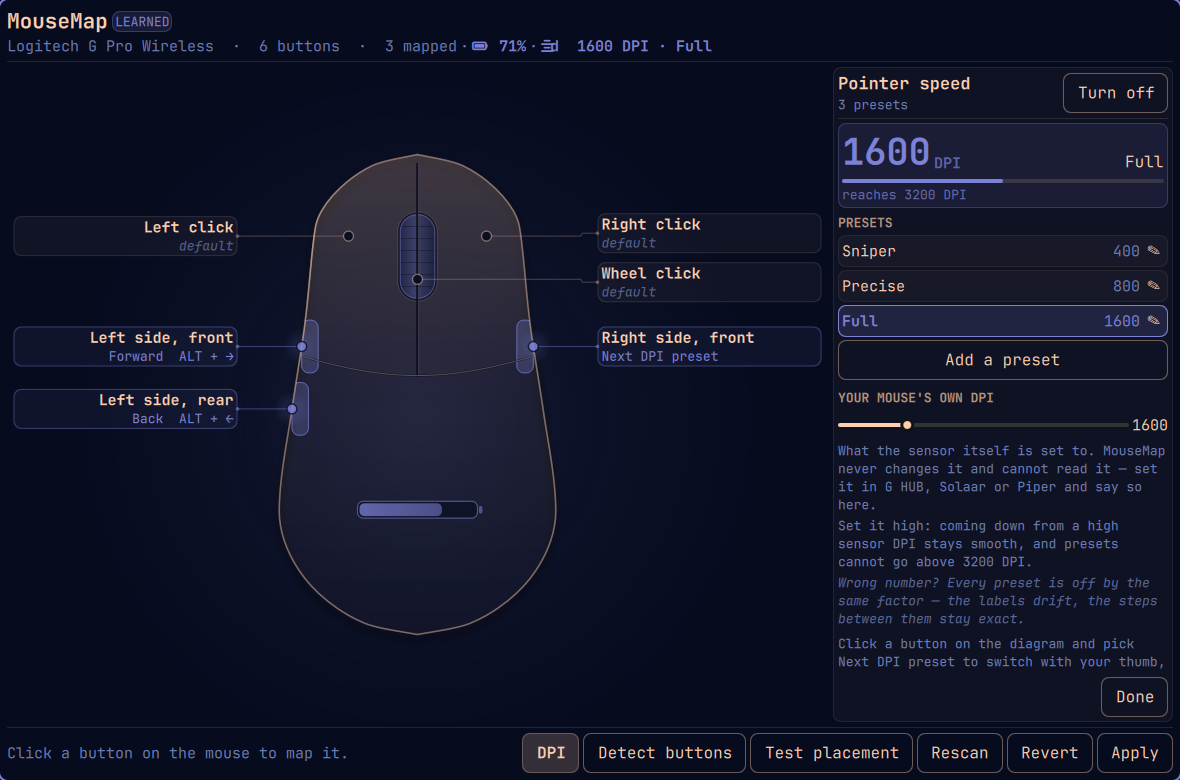
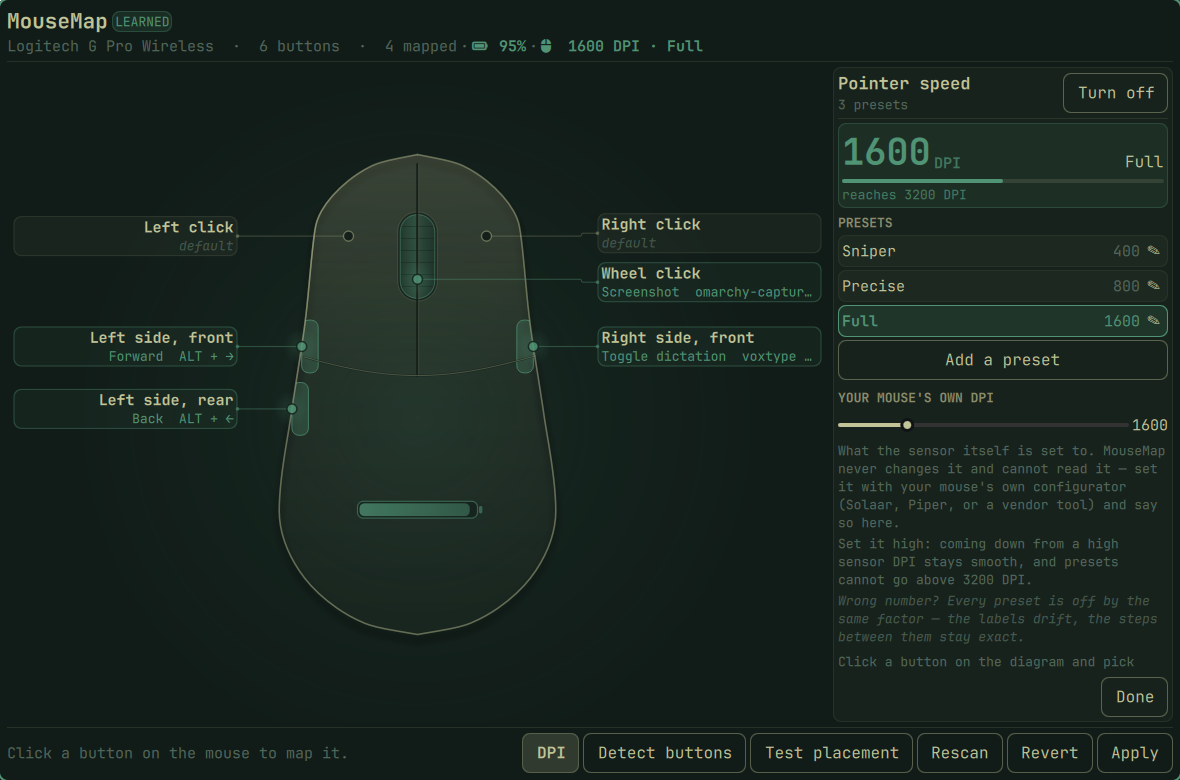
Describe the plugin by what it does, not by one vendor
MouseMap draws whatever mouse is plugged in, and the generated geometry is
what makes an unknown mouse work at all — but the prose led with Logitech
often enough to read as a Logitech tool. The receiver explanation now leads
with the general case and names Unifying and Lightspeed as the common
example; the keystroke-button section names vendor configurators as a class
rather than G HUB alone; and the DPI panel points at "your mouse's own
configurator" instead of listing three brands, since the one a reader needs
is whichever they already use. None of the technical content changed, only
what it claims to be about.

Icon glyphs are now written as the character itself rather than a \u escape,
with a test enforcing it across every QML and JS file. An escape takes
exactly four hex digits, which is not enough for the Material Design range
Nerd Fonts place above U+FFFF: a five-digit escape parses as a four-digit
one plus a literal character, so the label silently renders an unrelated
icon with a stray letter behind it. Writing the character makes the mistake
unavailable instead of merely discouraged, and matches what the bar widget
already did.

Claude-Session: https://claude.ai/code/session_014AG2oW8E2CdpnMBzus4Pnf

diff --git a/MouseMapPanel.qml b/MouseMapPanel.qml
@@ -1224,7 +1224,8 @@ Item {
                 visible: root.battery !== null
                 text: {
                   if (!root.battery) return ""
-                  var glyph = root.battery.charging ? "\uf0e7" : "\uf240"
+                  // Written as characters, not escapes; see the DPI glyph below.
+                  var glyph = root.battery.charging ? "" : ""
                   return glyph + "  " + Devices.batteryLabel(root.battery)
                 }
                 color: root.battery && root.battery.low ? Color.urgent : Color.accent
@@ -1245,9 +1246,16 @@ Item {
               }
               Text {
                 visible: root.dpiPreset !== null
-                // nf-md-mouse, the same glyph the OSD draws on a switch.
+                // nf-md-mouse, the same glyph the bar widget uses.
+                //
+                // Every icon glyph in this plugin is written as the character
+                // itself rather than a \u escape, and a test enforces it. An
+                // escape takes exactly four hex digits, so a codepoint above
+                // U+FFFF cannot be spelled that way at all: "\uf037d" is
+                // U+F037 followed by a literal "d". Writing the character
+                // makes that mistake unavailable.
                 text: root.dpiPreset
-                  ? "\uf037d  " + root.dpiPreset.dpi + " DPI · " + root.dpiPreset.name : ""
+                  ? "  " + root.dpiPreset.dpi + " DPI · " + root.dpiPreset.name : ""
                 color: Color.accent
                 font.family: Style.font.family
                 font.pixelSize: Style.font.bodySmall

diff --git a/tests/test_manifest.js b/tests/test_manifest.js
@@ -145,4 +145,33 @@ for (const script of ["scripts/mousemap", "scripts/mousemap-sniff"]) {
   assert.ok(/## Requirements|dependenc/i.test(readme), "README must document dependencies")
 }
 
+// ---------------------------------------------------------------- glyphs
+//
+// Icon glyphs are written as the character itself, never as a \u escape.
+//
+// An escape takes exactly four hex digits, which is not enough for the
+// Material Design range Nerd Fonts put above U+FFFF: a five-digit escape is
+// silently read as a four-digit one plus a literal character, so the label
+// renders as some unrelated icon with a stray letter after it. Writing the
+// character makes the mistake unavailable rather than merely discouraged.
+//
+// Comments are stripped first, so the note explaining this rule does not
+// trip it.
+{
+  const files = fs.readdirSync(root).filter(f => /\.(qml|js)$/.test(f))
+  const pua = /\\u[eEfF][0-9a-fA-F]{3}/
+
+  for (const file of files) {
+    const code = read(file)
+      .replace(/\/\*[\s\S]*?\*\//g, "")
+      .split("\n")
+      .map(line => line.replace(/^\s*\/\/.*$/, ""))
+      .join("\n")
+
+    const hit = pua.exec(code)
+    assert.ok(!hit,
+      `${file} writes an icon glyph as ${hit && hit[0]}; write the character itself instead`)
+  }
+}
+
 console.log("manifest + packaging: all assertions passed")

diff --git a/DpiPanel.qml b/DpiPanel.qml
@@ -382,7 +382,8 @@ Item {
         Text {
           Layout.fillWidth: true
           text: "What the sensor itself is set to. MouseMap never changes it and "
-              + "cannot read it — set it in G HUB, Solaar or Piper and say so here."
+              + "cannot read it — set it with your mouse's own configurator "
+              + "(Solaar, Piper, or a vendor tool) and say so here."
           wrapMode: Text.WordWrap
           color: Color.muted
           font.family: Style.font.family

diff --git a/README.md b/README.md
@@ -125,8 +125,9 @@ effective = base × (1 + sensitivity)
 ```
 
 `base` is what the mouse's own sensor is set to. MouseMap cannot read it and
-never changes it; you tell it in the panel, and set the sensor itself in G
-HUB, `solaar`, or `piper`/`ratbagd`.
+never changes it; you tell it in the panel, and set the sensor itself with
+your mouse's own configurator — `solaar`, `piper`/`ratbagd`, or a vendor tool
+such as G HUB.
 
 Two consequences worth knowing:
 
@@ -159,11 +160,12 @@ button, watch where it lights up, and drag its label if it is wrong.
 
 ### Detect buttons
 
-Behind a Logitech Unifying or Lightspeed receiver, the kernel cannot tell you
-which buttons the mouse has. The receiver is a HID multiplexer and advertises
-the union of everything it *could* ever carry — all sixteen `BTN_MOUSE` codes
-plus a full keyboard — regardless of what is paired to it. That is why a
-capability list alone is not trustworthy.
+Behind a wireless receiver the kernel often cannot tell you which buttons the
+mouse has. A receiver is a HID multiplexer: it advertises the union of
+everything it *could* ever carry — all sixteen `BTN_MOUSE` codes plus a full
+keyboard — regardless of what is actually paired to it. Logitech's Unifying
+and Lightspeed dongles are the common case, but anything that multiplexes
+behaves this way. That is why a capability list alone is not trustworthy.
 
 **Detect buttons** resolves it by watching: it temporarily binds every
 candidate button code, you press each button on your mouse, and whatever
@@ -183,11 +185,12 @@ no battery section.
 
 ## Buttons that type instead of clicking
 
-Plenty of mouse buttons never send a mouse button at all. A Logitech onboard
-profile that assigns a button a keystroke or a G-shift macro makes it arrive
-as a **keyboard key**, from the receiver's keyboard interface rather than its
-pointer one. A G Pro Wireless can easily have one thumb button sending `2` and
-the other sending `Left Ctrl`.
+Plenty of mouse buttons never send a mouse button at all. An onboard profile
+that assigns a button a keystroke or a shift-layer macro makes it arrive as a
+**keyboard key**, from the receiver's keyboard interface rather than its
+pointer one — vendor configurators all do this, Logitech's G HUB and Razer's
+Synapse among them. A gaming mouse can easily have one thumb button sending
+`2` and the other sending `Left Ctrl`.
 
 MouseMap handles these. The same physical mouse appears in Hyprland a second
 time as a keyboard, with its own device name, so the key can be bound scoped
@@ -205,9 +208,9 @@ device alongside its buttons, which is only safe because every one of those
 probe binds is scoped to the mouse.
 
 If you would rather have real mouse buttons, reassign them in the mouse's
-onboard profile with G HUB or `piper`/`ratbagd`. Be aware that this writes to
-the mouse, so unlike everything else here it *does* follow the device to
-other machines.
+onboard profile with its vendor configurator, or `piper`/`ratbagd`. Be aware
+that this writes to the mouse, so unlike everything else here it *does*
+follow the device to other machines.
 
 To see exactly what each button emits there is a read-only diagnostic. It
 opens `/dev/input/event*` directly, which is root-only on a normal desktop, so
